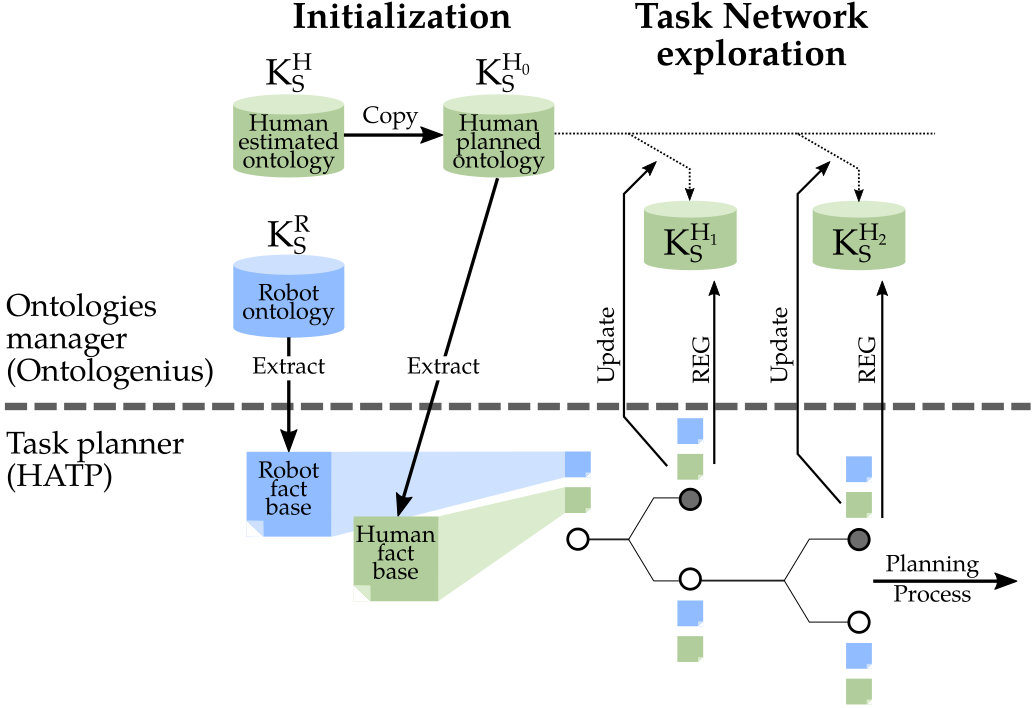
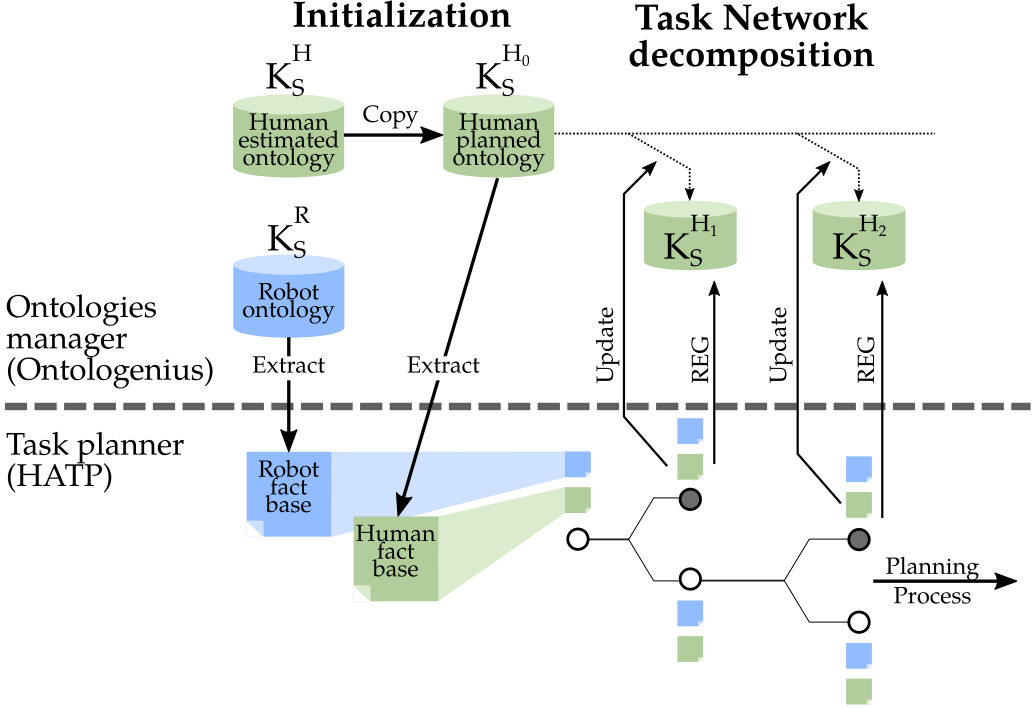
chapter 5 integration of planners

diff --git a/Chapter5.tex b/Chapter5.tex
@@ -84,20 +84,55 @@ In the previous applications of this thesis, we could use only one knowledge bas
 
 \section[Integrating planners]{Integrating task and communication planners}
 
+The general scheme of our approach to enabling a symbolic task planner to estimate the feasibility and cost of future communication is the one presented in Figure~\ref{fig:chap5_integration}. On the top of the figure, we have large, complete semantic knowledge bases representing the robot knowledge and the other agents estimated knowledge. At the bottom of the figure, we have the planning process with reduced knowledge bases dedicated to task planning. As explained earlier, because the planning process will need to represent the future estimate mental state of its partner without altering the original estimation, we first perform a copy of the human estimated ontology. From there, it because an independent knowledge base capturing the human knowledge about the environment at a given instant. We call this new ontology the human planned ontology and denote it $\kbs^{H_0}$. At the initialization of the planning process, once the copy performed, the planner extract from the robot ontology and the human planned ontology the symbolic facts it needs. To do so, every entity types declared in the planning domain are retrieved from the ontologies by their name, and entities inheriting from these types in the ontologies are created in the planning knowledge base. Then, each attribute (both static and dynamic) of every entities declared in the domain has its value updated. If the attribute is a set, multiple relations with the same name originating from the same entity and pointing to different ones can be found in the ontologies. If so, all the pointed entities are added to the set.
+
+During the task network decomposition, the general workflow executed for each communication action encountered consists of 1) updating the human planned ontology with the expected world state 2) identifying the objects involved in the communication 3) execute the REG for each of these objects 4) calculate the feasibility and the cost of the communication action according to the feasibility and the cost of each individual RE involved in the planned communication. Note that if multiple objects have to be referred to in single communication (e.g. \textit{"give me X and Y"}), the human planned ontology is only updated once as the estimated state in the same bor both REG.
+
 \begin{figure}[h!]
 \centering
 \includegraphics[scale=0.4]{figures/chapter5/integration.png}
-\caption{\label{fig:chap5_integration} The initial state (left) and final state (right) of a task where the robot has to explain to the human partner how to move the cubes to complete the task. In this situation, some cubes are too complex to explain. Pointing them could help in some cases. }
+\caption{\label{fig:chap5_integration} A representation of the planning process with the estimation of future human mental states to perform REG. The ontology representing estimated human knowledge is first copied to plan it without altering the original one. The human and robot planning symbolic facts are extracted from their respective ontologies. During the HTN decomposition, for each verbal communication action encounter, the planned human ontology is updated with the current explored state and the REG is executed on it. }
 \end{figure}
 
-%Since maintaining this external representation can be an heavy process, it is updated only when a communication action has to be evaluated.
-
-%The general workflow executed for each communication action encountered during the planning process consists of: 1) updating the external semantic KB of the human partner with the expected world state 2) identifying the objects to which to refer to in the communication 3) execute the REG for each of these objects 4) calculate the feasibility and the cost of the communication action according to the feasibility and the cost of each individual RE involved in the planned communication. Note that the examples used in this paper only involve one RE but the same method can be used for communications of type \textit{"give me X and Y"}. In this case, the external semantic KB is only updated once and both REG are executed on this KB.
+In this section, we explain how a communication action is represented in the HTN and how the task planner can easily update the human planned ontology. We will even go further with an unimplemented update solution that could reduce the number of updates to be performed. 
 
 
 \subsection{The representation of the communication action}
 
+To focus ourselves on communication actions, we have thus designed simple planning problems where only the robot knows the goal of a joint task and issues command to its human partner one at a time when the human has to do an action. Communications related to entities of the scene are thus needed in each step of the plan because the human has no way to guess the actions he has to perform. Even if these problems present major limitations regarding the \textit{when} to communicate it allows us to simply present our approach. However, the method is still applicable on more general problems which need to estimate the \textit{what} of communications and ensure their pertinence in future states. Moreover, the presented method is compatible with others focused on the estimation of the \textit{when} to communicate~\cite{devin_2016_implemented}, \cite{unhelkar_2020_decision}.
+
+In the HATP domain it is represented in the way that when an abstract or a primitive task is only feasible by a human and requires to designate a specific entity, a decomposition is added. In this decomposition, we specify that if the task is assigned to a human, a referring communication action must be done before by the robot to this human. This kind of decomposition is needed because we place ourselves in cases where the humans do not know the global objectives of the task, and thus, all the instructions must be given by the robot. With this approach, we consider that the human needs communication from the robot to act, and does not plan by themselves. In a more general case, the communication action from the robot would only appear if humans do not have the necessary information~\cite{devin_2016_implemented}.
+
+The communication action feasibility is then determined by both symbolic preconditions (e.g. the human and the robot are in the same room) and REG result (whether a solution is found or not). If the communication action is feasible, the cost of the communication action is then computed as the sum of a fixed cost depending on the type of communication and the REG solution cost. If multiple entities would have to be referred in a single communication, the cost would be the sum of each REG solution cost and the fixed cost.
+
 \subsection{Maintaining the right knowledge base, at the right time}
+
+We previously saw the need to keep an ontology updated with the estimated beliefs at the time of the communication to run the REG on it and the necessity to create the human planned ontology with a copy of the human estimated one to not create side effect on the rest of the architecture.
+
+Since maintaining this external representation can be a heavy process, we first choose to only update it when a communication action has to be evaluated. However, having a single planned ontology, knowing the update to perform on it to reflect the current explored state can be an intractable problem. The planner can perform so backtracking during the exploration and the modifications to perform to represent the state of the currently evaluated communication would depend on the previous communication action explored. Because the previous communication could come from a side decomposition, the planner would have to either compare each relation between its representation and the ontology or keep a trace of all the modifications between two successive evaluations.
+
+A first solution would be to create a copy of the planned ontology representing the initial state in order to have one ontology for each communication evaluation, all create from the initial state. Such a solution would reduce the planner complexity but as the ontology represent a superset of the planner facts base, it would be too time-consuming for the ontologies manager. For huge ontologies, analyzing the modification between two updates would be faster than an entire copy.
+
+To solve this problem we thus choose to use a versioning system on the ontology. This versioning system is the one proposed by the software Ontologenius presented in chapter \change{ref to chapter} \footnote{For the story of this thesis, this feature has initially been developed especially for this application after we had evaluated that a simple task would require few hours to be solved.}. We thus keep the first step that is to create the planned ontology with a copy then perform a commit on it to mark this initial state. From there, when a communication action is found, the planner goes back to the initial commit and update the ontology with the difference from the initial state. However, HATP is not adapted to keep such trace and it would require too many modifications in its internal structure. To passe over this problem, the planner performs a first commit to represent the initial state and extract the necessary knowledge from it. It then removes all the dynamic relations from the ontology a perform a second commit. It will represent a kind of pattern for each state involving a communication action. For each of them, the planner just has to go back to the commit representing this pattern and update all the dynamic relations with their values in the evaluated state. An example of a commit-graph related to this solution is represented in Figure~\ref{fig:chap5_versioning_simple}. Each commit thus represents a $\kbs^{H_i}$ on which a REG can be performed. The advantage here is that the knowledge backtracking is internally managed by Ontologenius and thus optimized.
+
+\begin{figure}[h!]
+\centering
+\includegraphics[scale=0.3]{figures/chapter5/versioning_simple.png}
+\caption{\label{fig:chap5_versioning_simple} The commit-graph generated by Ontologenius for a plan with three communication action evaluated. Each evaluation generate a specific commit representing the state of the world at the moment of the communication. }
+\end{figure}
+
+\subsection{Reducing the number of updates}
+
+A major limitation of the previous solution is the need to update all the dynamic relations even if few changes between communications. An unimplemented but feasible solution would be to update the ontology for each explored state during the planning process and create a commit for each of them. The advantage is that the backtracking has not to be managed by the task planner and only the modified relations have to be updated in the ontology. A commit-graph of such solution is represented in Figure~\ref{fig:chap5_versioning_advance}. Assuming this graph to represent the same task decomposition of the previous one, we see however that more commit have to be performed even if fewer modifications are performed between the two. For tasks with many communication actions, it could lead to a performance gain but for tasks with less communication, it would require more updates than needed as even decompositions without communication have to update the ontology.
+
+\begin{figure}[h!]
+\centering
+\includegraphics[scale=0.25]{figures/chapter5/versioning_advance.png}
+\caption{\label{fig:chap5_versioning_advance} The commit-graph generated by Ontologenius for a plan with three communication action evaluated. Each evaluation generate a specific commit representing the state of the world at the moment of the communication. }
+\end{figure}
+
+From the planner point of view, it would just have to assign UID to each state and created a commit using these UIDs. When backtracking, it would just have to checkout the ontology with the UID of the state to explore.
+
 
 \section{Results}
 
